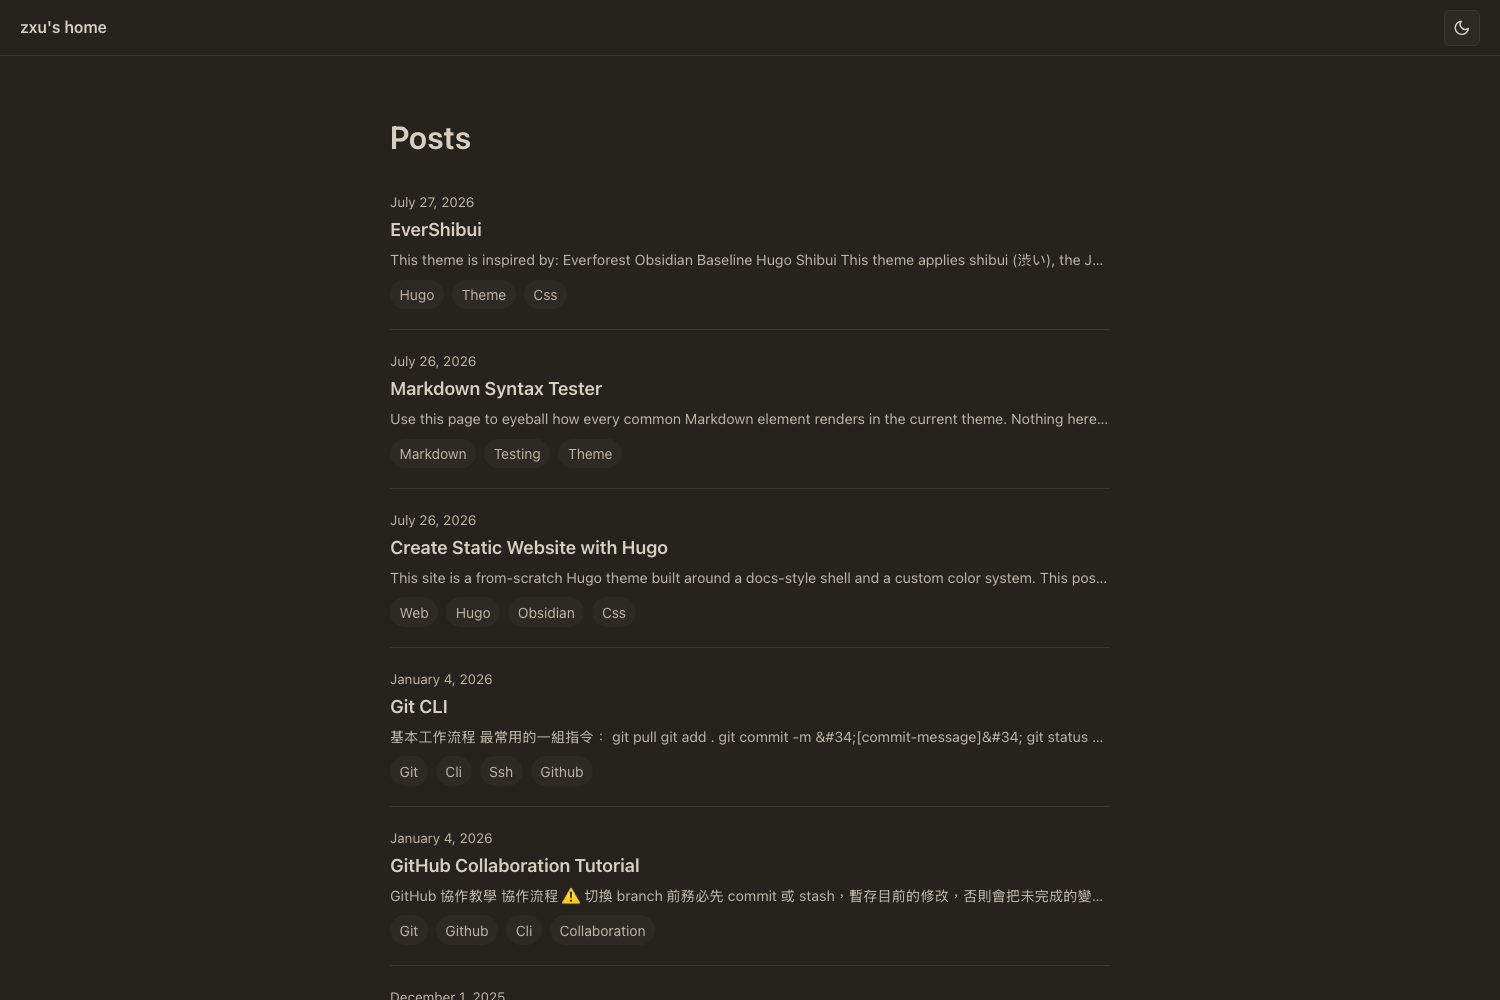
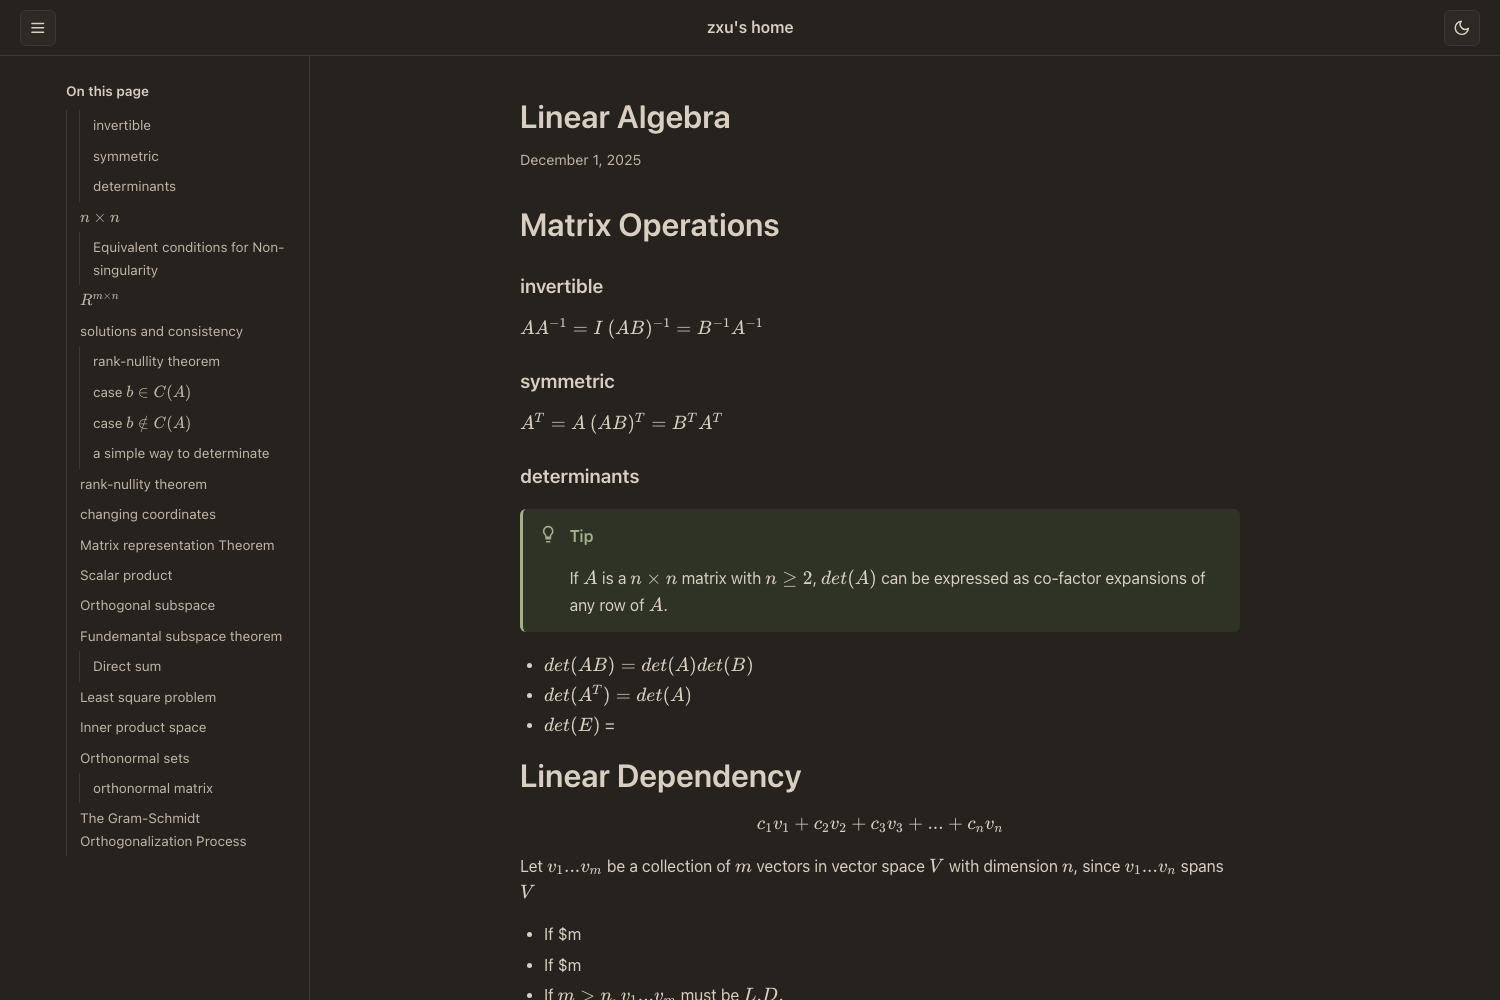
docs: fix image path

diff --git a/README.md b/README.md
@@ -9,7 +9,7 @@ Please visit https://9zxu.github.io/posts/evershibui/ for a detailed theme intro
 | :-----: | :------------------------------------------------------------------------------------------------------------------: | :------------------------------------------------------------------------------------------------------------------: |
 |  Home   | ![home-light](https://raw.githubusercontent.com/9zxu/evershibui/main/images/light-home.png) | ![home-dark](https://raw.githubusercontent.com/9zxu/evershibui/main/images/dark-home.png) |
 | Content | ![content-light](https://raw.githubusercontent.com/9zxu/evershibui/main/images/light-content.png) | ![content-dark](https://raw.githubusercontent.com/9zxu/evershibui/main/images/dark-content.png) |
-|  Post   | ![post-light](https://raw.githubusercontent.com/9zxu/evershibui/main/images/light-post.png) | ![post-dark](https://raw.githubusercontent.com/9zxu/evershibui/main/images/dark-post.png) |
+|  Post   | ![post-light](https://raw.githubusercontent.com/9zxu/evershibui/main/images/light-posts.png) | ![post-dark](https://raw.githubusercontent.com/9zxu/evershibui/main/images/dark-posts.png) |
 
 ## Features
 
